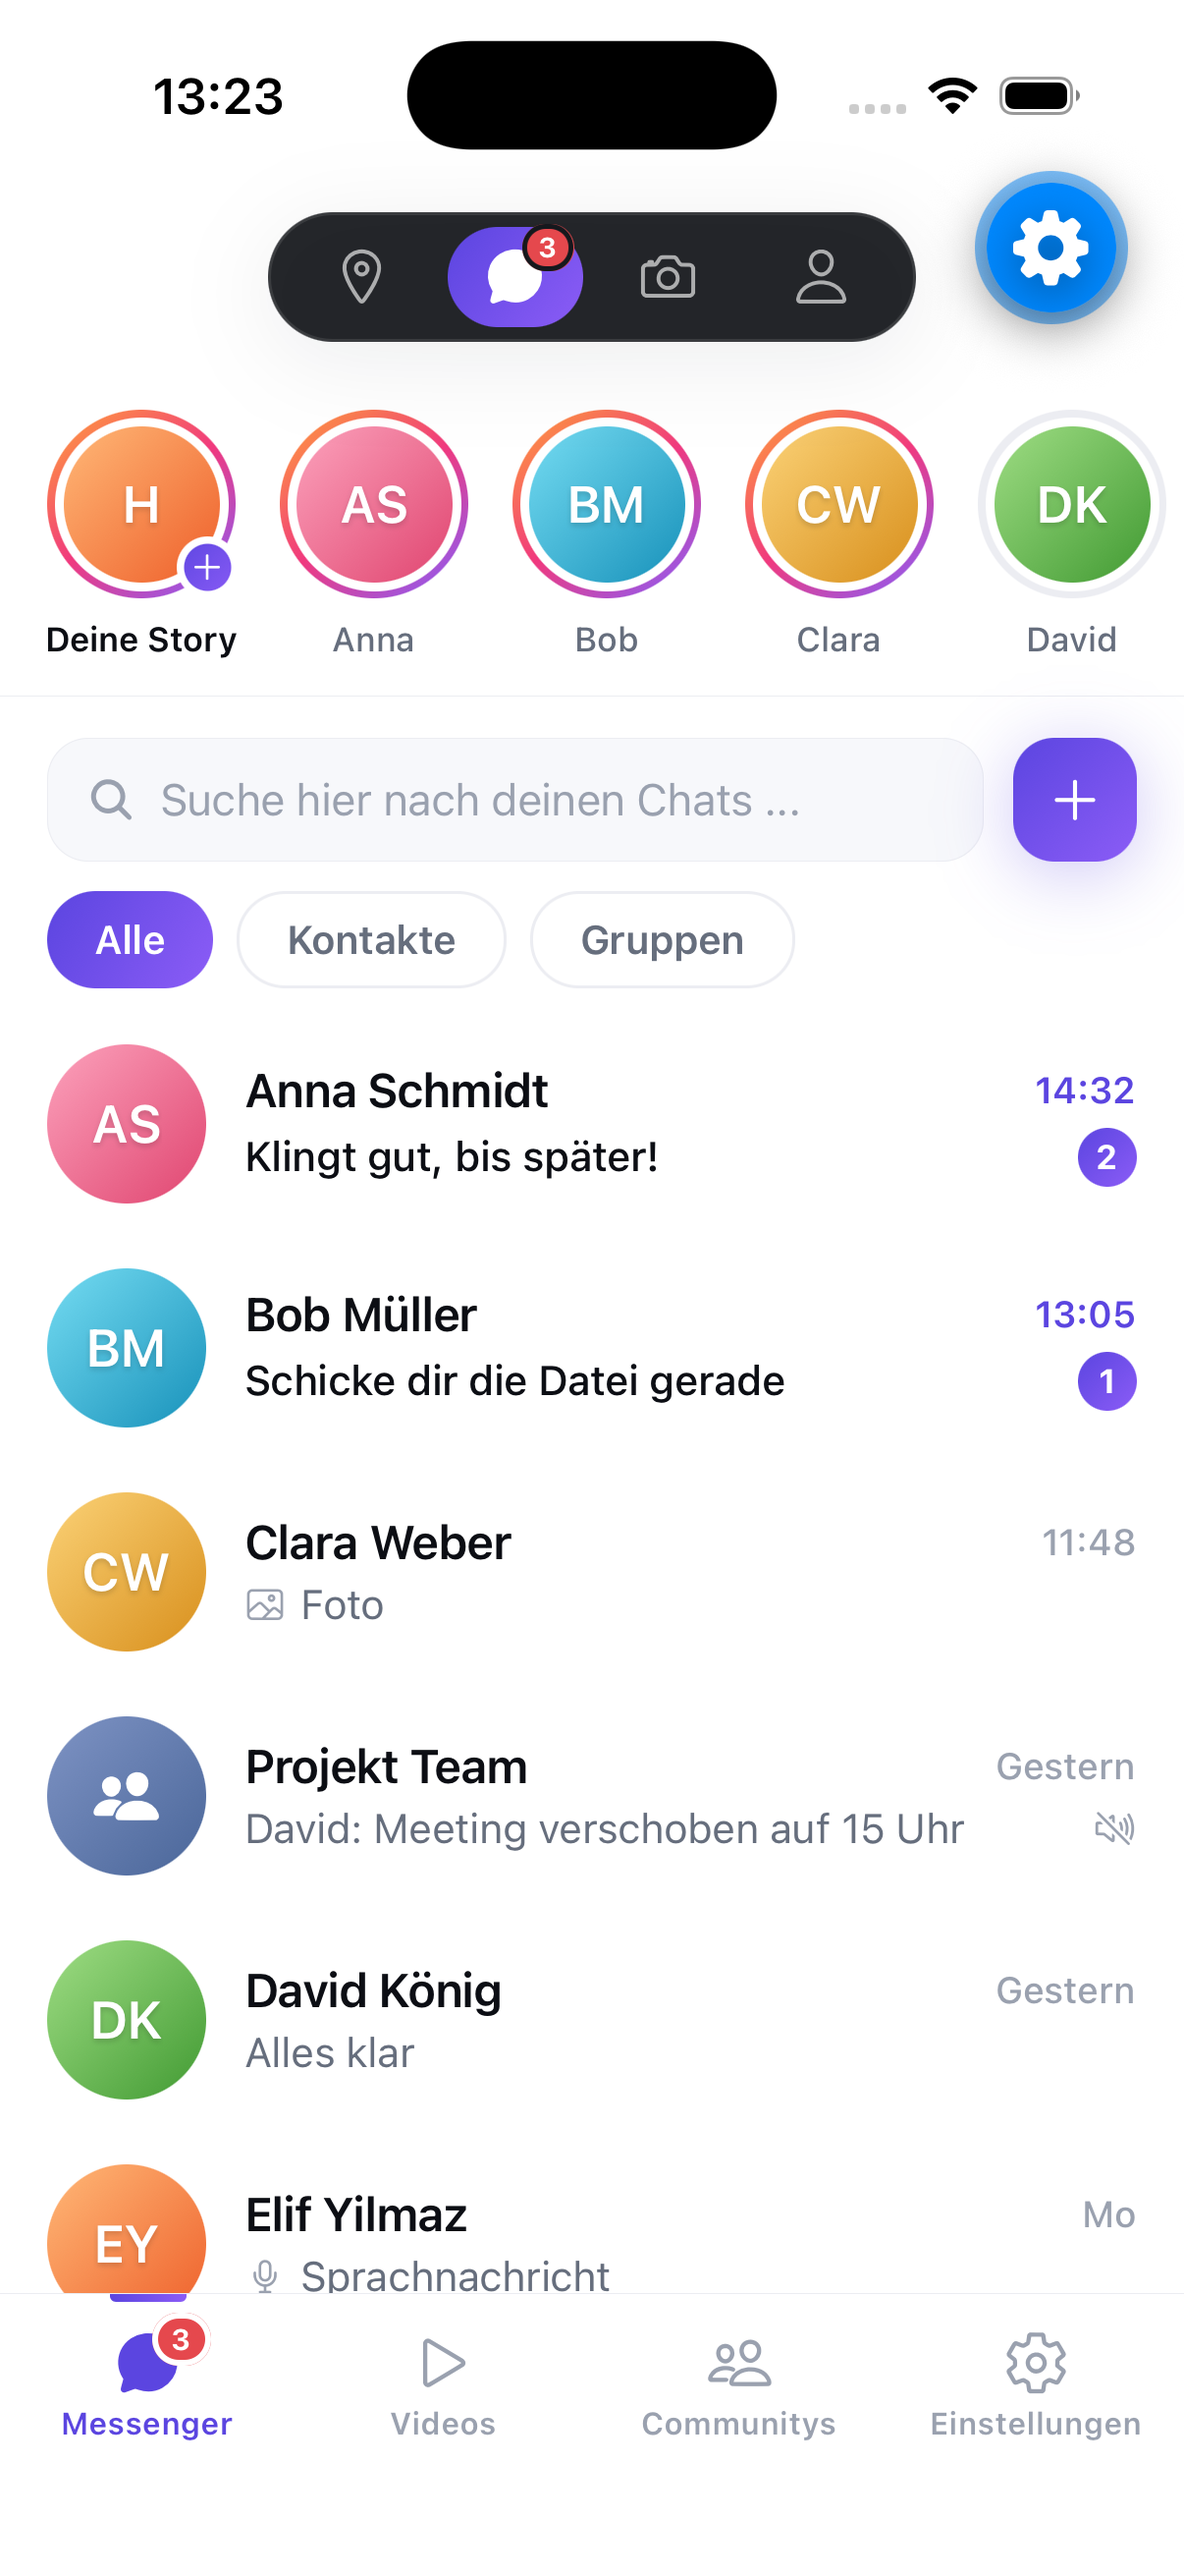
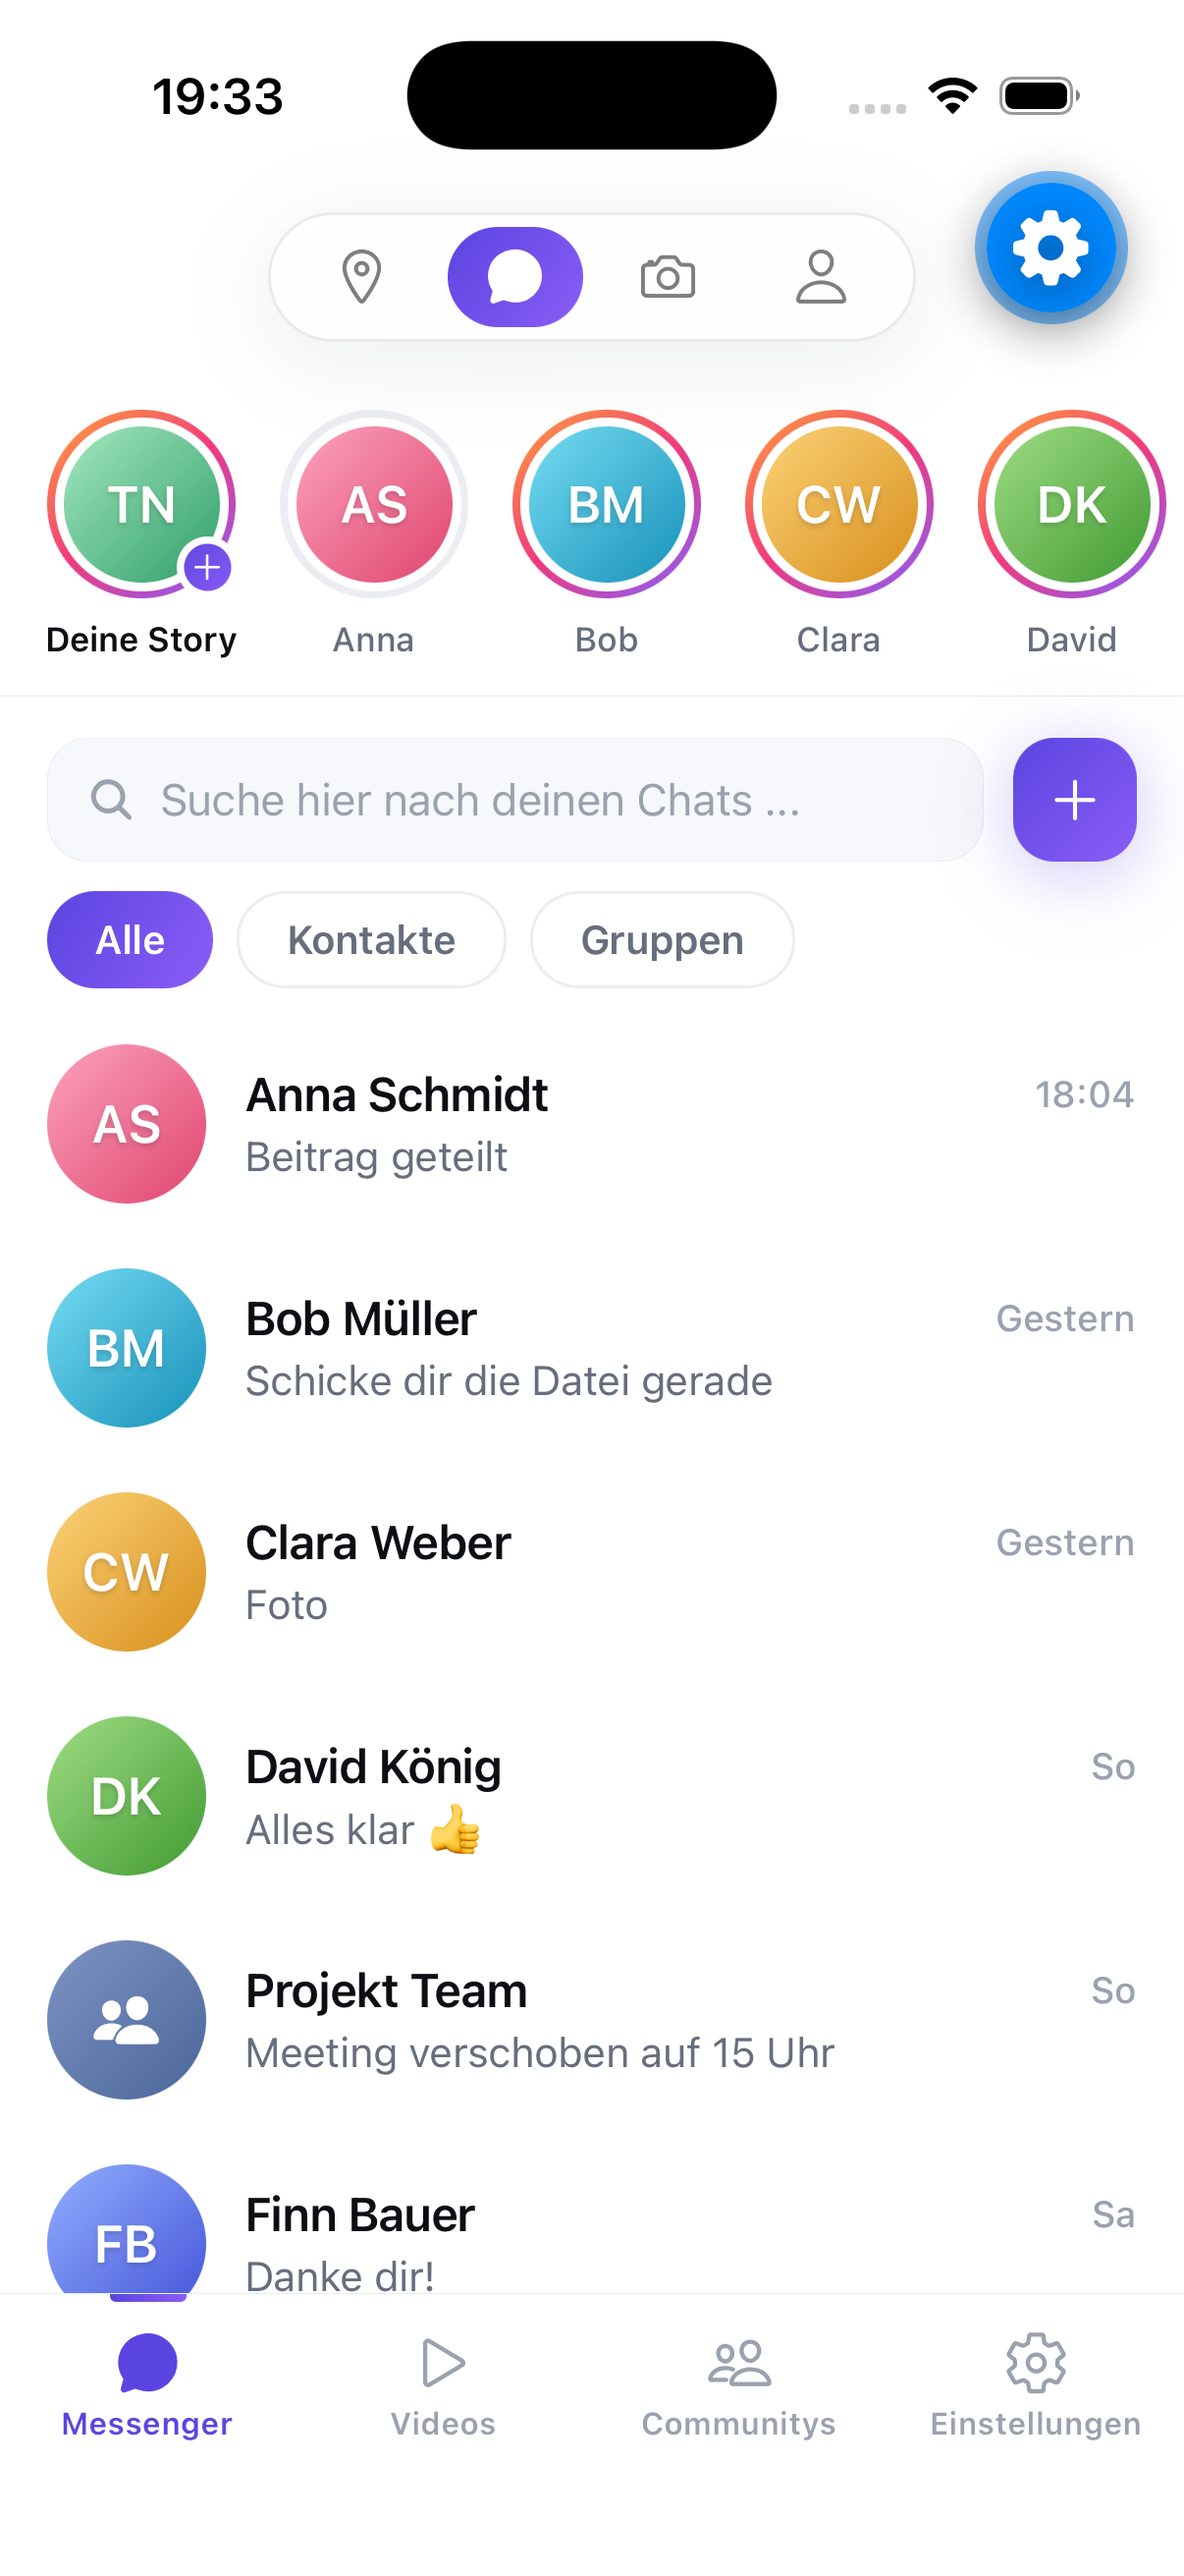
Chat-Optionen: die App hatte das Blatt gar nicht
Auf der Website öffnet langes Drücken auf einen Chat seit jeher ein Blatt mit
Archivieren, Stummschalten, Als gelesen markieren, den Einstellungen und dem
Löschen (chatOptionen in web/public/app.js). In der App führte langes Drücken
ins Leere: Archivieren und Chat löschen gab es überhaupt nicht.

Sichtbar wurde das an zwei Stellen zugleich. "Archivierte Chats" in den
Einstellungen stand fest auf "Kein Chat ist archiviert." — wer auf der
Website etwas archivierte, fand es in der App auch dort nicht. Und die
Chatliste zeigte archivierte Chats weiter mitten unter den anderen.

Dabei liest lib/daten.ts is_archived und is_favorite längst mit. Benutzt
wurden sie nicht, weil beide Felder im Chat-Typ fehlten.

Das Blatt hat jetzt dieselben Punkte in derselben Reihenfolge wie auf der
Website, das Löschen abgesetzt und in Rot. Das Umlegen schaltet die Liste
sofort um und schreibt nebenher; scheitert es, wird zurückgestellt.

Claude-Session: https://claude.ai/code/session_016uF9pjduqvrWBb1qzXeQX8

diff --git a/app/App.tsx b/app/App.tsx
@@ -119,6 +119,13 @@ const Shell = () => {
   // Alles, was die App in die Datenbank schreibt, laeuft hierueber.
   const aktion = useAktionen(setNotice);
   const [chats, setChats] = useState<Chat[]>([]);
+  /*
+   * Der Chat, dessen Optionen-Blatt offen ist. Auf der Website gibt es das
+   * Blatt seit jeher (chatOptionen in web/public/app.js); in der App fuehrte
+   * langes Druecken auf einen Chat bis zum 01.09.2026 ins Leere, und
+   * Archivieren, Als gelesen markieren und Chat loeschen gab es gar nicht.
+   */
+  const [chatOptionen, setChatOptionen] = useState<Chat | null>(null);
   const [contacts, setContacts] = useState<Contact[]>([]);
   const [stories, setStories] = useState<Story[]>([]);
 
@@ -527,6 +534,53 @@ const Shell = () => {
     /* Punkt 5: Nach Kontakt hinzufügen direkt zum Chat leiten,
        nicht sofort nach Nachricht fragen. */
     oeffneChat(chat);
+  };
+
+  /**
+   * Eine Einstellung am Chat umlegen — und sie merken.
+   *
+   * Die Liste schaltet sofort um, das Schreiben laeuft nebenher. Geht es
+   * schief, wird zurueckgestellt: eine Liste, die "Archiviert" behauptet,
+   * waehrend in der Datenbank nichts steht, ist der schlechtere Fall.
+   */
+  const chatUmlegen = (chat: Chat, was: 'archiv' | 'stumm' | 'gelesen') => {
+    const felder: Record<string, Partial<Chat>> = {
+      archiv: { archiviert: !chat.archiviert },
+      stumm: { muted: !chat.muted },
+      gelesen: { unreadCount: chat.unreadCount > 0 ? 0 : 1 },
+    };
+    const neu = felder[was];
+    const alt: Partial<Chat> = {
+      archiv: { archiviert: chat.archiviert },
+      stumm: { muted: chat.muted },
+      gelesen: { unreadCount: chat.unreadCount },
+    }[was];
+
+    const setzen = (werte: Partial<Chat>) =>
+      setChats((prev) => prev.map((c) => (c.id === chat.id ? { ...c, ...werte } : c)));
+
+    setzen(neu);
+    setNotice(
+      was === 'archiv'
+        ? chat.archiviert ? 'Aus dem Archiv geholt' : 'Chat archiviert'
+        : was === 'stumm'
+          ? chat.muted ? 'Stummschaltung aufgehoben' : 'Chat stummgeschaltet'
+          : chat.unreadCount > 0 ? 'Als gelesen markiert' : 'Als ungelesen markiert'
+    );
+
+    // "gelesen" ist in der Datenbank herum: is_read true heisst gelesen,
+    // unreadCount 0 heisst dasselbe.
+    const wert =
+      was === 'archiv' ? !chat.archiviert : was === 'stumm' ? !chat.muted : chat.unreadCount > 0;
+    aktion.chatEinstellung(chat.id, was, wert, () => setzen(alt));
+  };
+
+  /** Chat verlassen — die Unterhaltung bleibt beim Gegenueber stehen. */
+  const chatLoeschen = (chat: Chat) => {
+    const vorher = chats;
+    setChats((prev) => prev.filter((c) => c.id !== chat.id));
+    setNotice('Chat gelöscht');
+    aktion.chatVerlassen(chat.id, () => setChats(vorher));
   };
 
   /** Anfrage angenommen: der Chat ist ab jetzt frei benutzbar. */
@@ -1186,6 +1240,7 @@ const Shell = () => {
           onOpenChat={(chat) => oeffneChat(chat)}
           onOpenStory={openStory}
           onNewChat={() => setSheet('new')}
+          onChatOptionen={setChatOptionen}
         />
       );
     }
@@ -1297,6 +1352,63 @@ const Shell = () => {
         }}
         onClose={() => setSheet(null)}
       />
+      {/*
+        * Die Optionen zu einem Chat. Dieselben Punkte in derselben
+        * Reihenfolge wie auf der Website, das Loeschen abgesetzt.
+        */}
+      <ActionSheet
+        visible={Boolean(chatOptionen)}
+        title={chatOptionen?.name ?? ''}
+        untertitel={
+          chatOptionen
+            ? chatOptionen.isGroup
+              ? `${(chatOptionen.memberIds?.length ?? 0) + 1} Mitglieder`
+              : chatOptionen.archiviert
+                ? 'Im Archiv'
+                : chatOptionen.muted
+                  ? 'Stummgeschaltet'
+                  : 'Online'
+            : undefined
+        }
+        items={[
+          {
+            key: 'archiv',
+            label: chatOptionen?.archiviert ? 'Aus dem Archiv holen' : 'Archivieren',
+            icon: 'archive-outline',
+          },
+          {
+            key: 'stumm',
+            label: chatOptionen?.muted ? 'Stummschaltung aufheben' : 'Stummschalten',
+            icon: 'volume-mute-outline',
+          },
+          {
+            key: 'gelesen',
+            label:
+              (chatOptionen?.unreadCount ?? 0) > 0
+                ? 'Als gelesen markieren'
+                : 'Als ungelesen markieren',
+            icon: 'checkmark-done-outline',
+          },
+          { key: 'einstellungen', label: 'Chat-Einstellungen', icon: 'settings-outline' },
+          { key: 'loeschen', label: 'Chat löschen', icon: 'trash-outline', gefahr: true },
+        ]}
+        onSelect={(key) => {
+          const chat = chatOptionen;
+          setChatOptionen(null);
+          if (!chat) return;
+
+          if (key === 'einstellungen') {
+            // Die Kontaktinfo ist die Chat-Einstellung — dort stehen
+            // Benachrichtigungen, Sperre und Chat leeren.
+            if (chat.userId) return openProfile(chat.userId);
+            return setNotice('Für Gruppen gibt es die Einstellungen noch nicht');
+          }
+          if (key === 'loeschen') return chatLoeschen(chat);
+          chatUmlegen(chat, key as 'archiv' | 'stumm' | 'gelesen');
+        }}
+        onClose={() => setChatOptionen(null)}
+      />
+
       <NewGroupSheet
         visible={sheet === 'group'}
         contacts={contacts}

diff --git a/app/components/ActionSheet.tsx b/app/components/ActionSheet.tsx
@@ -10,11 +10,19 @@ export interface ActionSheetItem {
   key: string;
   label: string;
   icon: IconName;
+  /*
+   * Loeschen steht abgesetzt und in Rot. Die Website macht es genauso
+   * (chatOptionen in web/public/app.js): ein Loeschen, das aussieht wie
+   * "Stummschalten", wird irgendwann versehentlich angetippt.
+   */
+  gefahr?: boolean;
 }
 
 interface Props {
   visible: boolean;
   title: string;
+  /** Zweite Zeile unter dem Namen — "Im Archiv", "Stummgeschaltet", "8 Mitglieder". */
+  untertitel?: string;
   items: ActionSheetItem[];
   /**
    * Bild, um das es in diesem Blatt geht — die eben gemachte Aufnahme. Ohne
@@ -25,23 +33,40 @@ interface Props {
   onClose: () => void;
 }
 
-export const ActionSheet = ({ visible, title, items, vorschauUri, onSelect, onClose }: Props) => (
+export const ActionSheet = ({
+  visible,
+  title,
+  untertitel,
+  items,
+  vorschauUri,
+  onSelect,
+  onClose,
+}: Props) => (
   <Modal visible={visible} transparent animationType="slide" onRequestClose={onClose}>
     <Druck style={styles.backdrop} onPress={onClose} />
     <View style={styles.sheet}>
       <View style={styles.handle} />
       <Text style={styles.title}>{title}</Text>
+      {Boolean(untertitel) && <Text style={styles.untertitel}>{untertitel}</Text>}
       {vorschauUri && <Image source={{ uri: vorschauUri }} style={styles.vorschau} />}
       {items.map((item) => (
         <Druck
           key={item.key}
-          style={({ pressed }) => [styles.item, pressed && styles.itemPressed]}
+          style={({ pressed }) => [
+            styles.item,
+            item.gefahr && styles.itemGefahr,
+            pressed && styles.itemPressed,
+          ]}
           onPress={() => onSelect(item.key)}
         >
           <View style={styles.icon}>
-            <Ionicons name={item.icon} size={18} color={colors.text2} />
+            <Ionicons
+              name={item.icon}
+              size={18}
+              color={item.gefahr ? colors.danger : colors.text2}
+            />
           </View>
-          <Text style={styles.label}>{item.label}</Text>
+          <Text style={[styles.label, item.gefahr && styles.labelGefahr]}>{item.label}</Text>
           <Ionicons name="chevron-forward" size={18} color={colors.text3} />
         </Druck>
       ))}
@@ -101,4 +126,14 @@ const styles = themenStyles((colors) => ({
     justifyContent: 'center',
   },
   label: { flex: 1, color: colors.text, ...typography.body },
+  labelGefahr: { color: colors.danger },
+  // Der abgesetzte Bereich: eine kraeftigere Linie darueber statt der duennen.
+  itemGefahr: { borderTopWidth: 6, borderTopColor: colors.surface2 },
+  untertitel: {
+    paddingHorizontal: spacing.lg,
+    paddingTop: 8,
+    paddingBottom: 10,
+    color: colors.text3,
+    ...typography.small,
+  },
 }));

diff --git a/app/screens/messenger/ChatListScreen.tsx b/app/screens/messenger/ChatListScreen.tsx
@@ -28,9 +28,23 @@ interface Props {
   onOpenChat: (chat: Chat) => void;
   onOpenStory: (story: Story) => void;
   onNewChat: () => void;
+  /*
+   * Langes Druecken auf einen Chat. Auf der Website gibt es das Blatt mit
+   * Archivieren, Stummschalten, Gelesen und Loeschen seit jeher
+   * (chatOptionen in web/public/app.js) — in der App fuehrte langes
+   * Druecken ins Leere.
+   */
+  onChatOptionen?: (chat: Chat) => void;
 }
 
-export const ChatListScreen = ({ allChats, stories, onOpenChat, onOpenStory, onNewChat }: Props) => {
+export const ChatListScreen = ({
+  allChats,
+  stories,
+  onOpenChat,
+  onOpenStory,
+  onNewChat,
+  onChatOptionen,
+}: Props) => {
   const [filter, setFilter] = useState<Filter>('all');
   const [query, setQuery] = useState('');
   const [isRefreshing, setIsRefreshing] = useState(false);
@@ -38,6 +52,9 @@ export const ChatListScreen = ({ allChats, stories, onOpenChat, onOpenStory, onN
   const chats = useMemo(() => {
     const q = query.trim().toLowerCase();
     return allChats.filter((chat) => {
+      // Archivierte Chats stehen nicht in der Liste — sie stehen unter
+      // Einstellungen → Archivierte Chats. Genau wie auf der Website.
+      if (chat.archiviert) return false;
       if (filter === 'contacts' && chat.isGroup) return false;
       if (filter === 'groups' && !chat.isGroup) return false;
       if (!q) return true;
@@ -60,6 +77,14 @@ export const ChatListScreen = ({ allChats, stories, onOpenChat, onOpenStory, onN
       <Druck
         style={({ pressed }) => [styles.row, pressed && styles.rowPressed]}
         onPress={() => onOpenChat(item)}
+        onLongPress={
+          onChatOptionen
+            ? () => {
+                haptic.light();
+                onChatOptionen(item);
+              }
+            : undefined
+        }
       >
         <Avatar id={item.userId ?? item.id} name={item.name} size={sizes.avatarLg} group={item.isGroup} />
         <View style={styles.rowBody}>

diff --git a/app/screens/profile/SettingsScreen.tsx b/app/screens/profile/SettingsScreen.tsx
@@ -314,7 +314,19 @@ export const SettingsScreen = ({ onNotice, onLogout, onSwitchAccount, sprung, on
       const stumm = communities.filter((c) => c.joined && c.unreadCount === 0 && c.visibility === 'private');
       return { leer: 'Keine Community ist stummgeschaltet.', zeilen: stumm.map((c) => ({ text: c.name, neben: 'stumm' })) };
     }
-    if (art === 'archiv') return { leer: 'Kein Chat ist archiviert.', zeilen: [] };
+    if (art === 'archiv') {
+      /*
+       * Hier stand fest "keine". Archiviert wird in chat_members.is_archived
+       * vermerkt, lib/daten.ts liest es mit — die Liste hat nur nie
+       * hineingesehen. Wer auf der Website einen Chat archivierte, fand ihn
+       * in der App unter "Archivierte Chats" trotzdem nicht.
+       */
+      const archiviert = alleChats.filter((c) => c.archiviert);
+      return {
+        leer: 'Kein Chat ist archiviert.',
+        zeilen: archiviert.map((c) => ({ text: c.name, neben: 'archiviert' })),
+      };
+    }
     if (art === 'speicher') {
       return {
         leer: '',

diff --git a/app/types/index.ts b/app/types/index.ts
@@ -51,6 +51,13 @@ export interface Chat {
   time: string;
   unreadCount: number;
   muted?: boolean;
+  /*
+   * Archiviert und Favorit stehen in chat_members — pro Mitglied, nicht pro
+   * Chat. lib/daten.ts liest beides seit jeher; benutzt wurde es in der App
+   * bis zum 01.09.2026 nicht, weil es hier fehlte.
+   */
+  archiviert?: boolean;
+  favorit?: boolean;
   /**
    * 'pending' = Kontaktanfrage laeuft noch. Bis zur Annahme ist genau eine
    * Nachricht erlaubt, danach ist das Eingabefeld gesperrt.

diff --git a/app/lib/daten.ts b/app/lib/daten.ts
@@ -302,6 +302,7 @@ export async function ladeChats(
         unreadCount: z.is_read ? 0 : 1,
         muted: Boolean(z.is_muted),
         archiviert: Boolean(z.is_archived),
+        favorit: Boolean(z.is_favorite),
         zeitpunkt: vorschau?.created_at ?? z.chats.updated_at,
       };
     })
